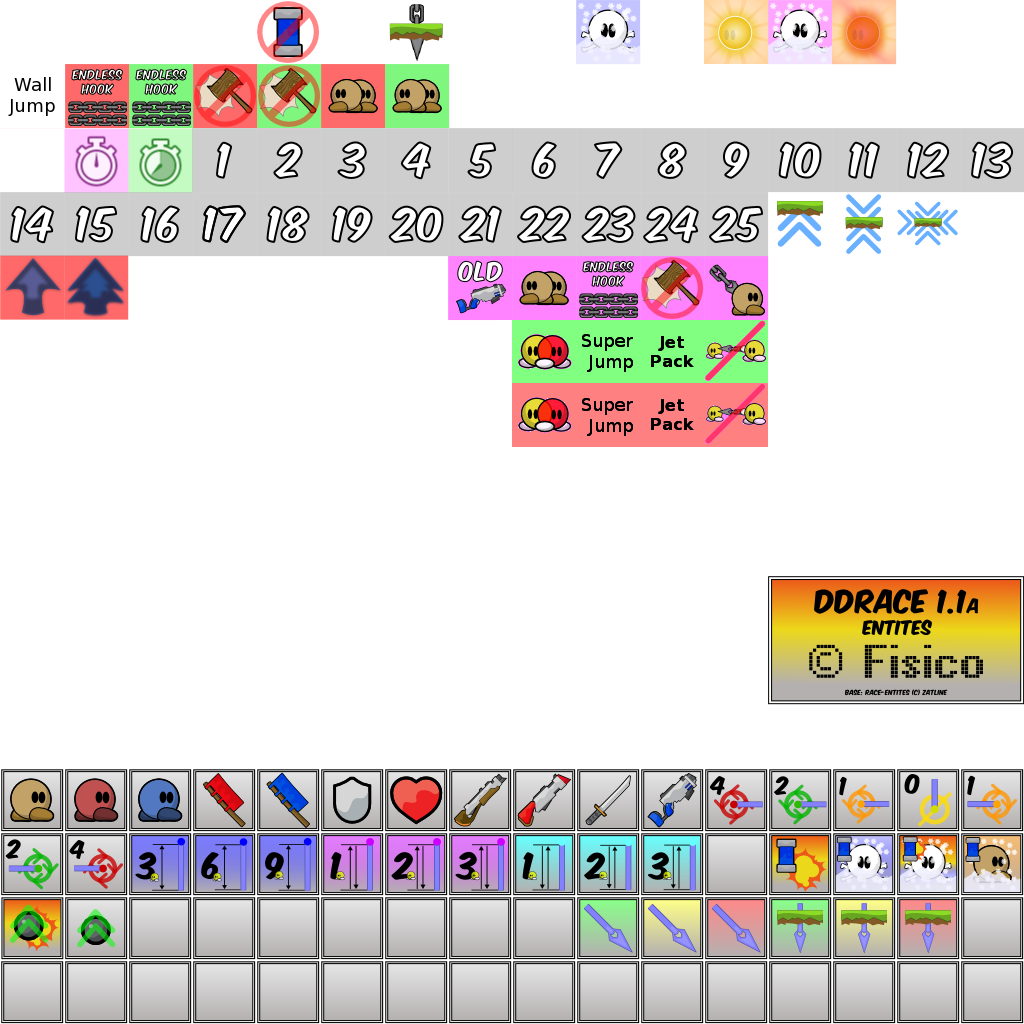
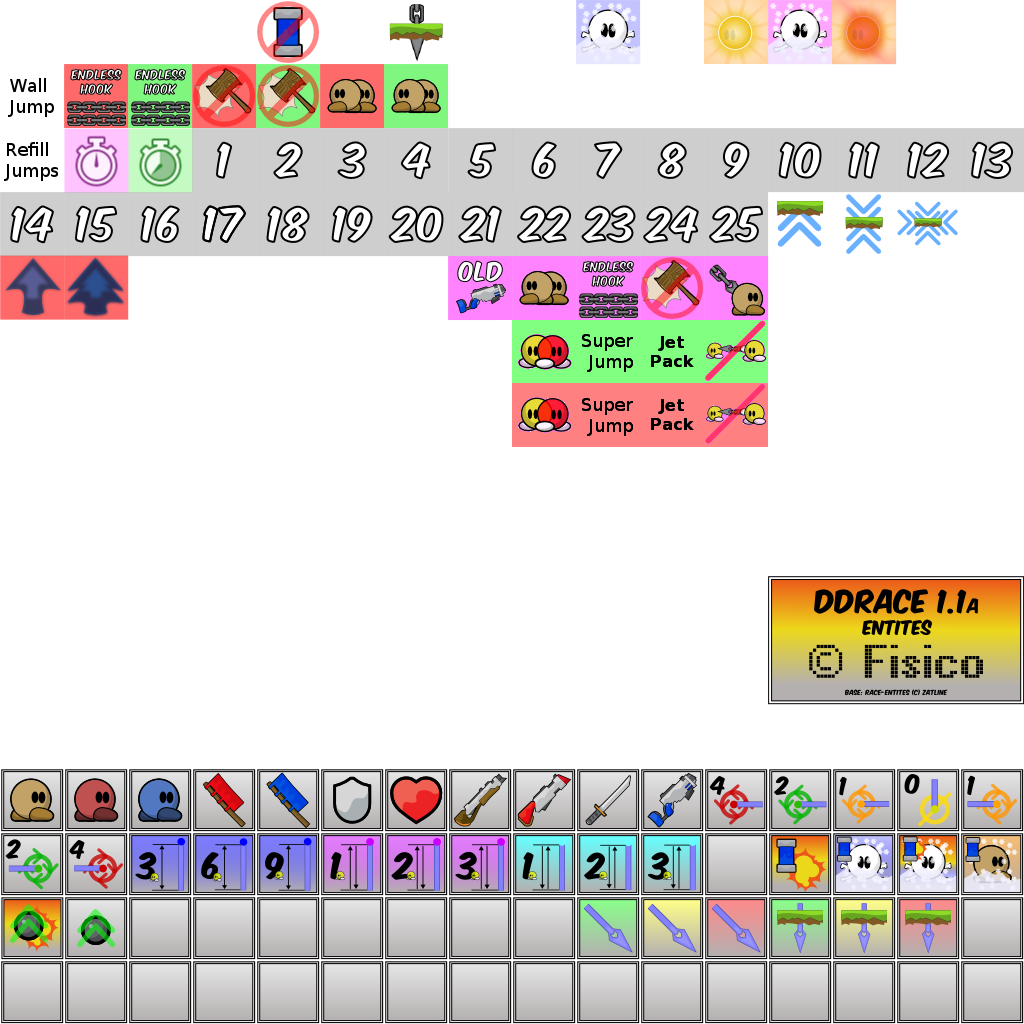
added refill jumps tile and cleaned tile detection

Changed region(s): [[0.0, 0.0625, 0.4375, 0.1875]]

diff --git a/src/game/server/entities/character.cpp b/src/game/server/entities/character.cpp
@@ -39,6 +39,7 @@ bool CCharacter::Spawn(CPlayer *pPlayer, vec2 Pos)
 	m_LastNoAmmoSound = -1;
 	m_LastWeapon = WEAPON_HAMMER;
 	m_QueuedWeapon = -1;
+	m_LastRefillJumps = false;
 	m_LastPenalty = false;
 	
 	m_pPlayer = pPlayer;
@@ -1350,6 +1351,7 @@ void CCharacter::HandleTiles(int Index)
 	//dbg_msg("","N%d L%d R%d B%d T%d",m_TileFIndex,m_TileFIndexL,m_TileFIndexR,m_TileFIndexB,m_TileFIndexT);
 	if(Index < 0)
 	{
+		m_LastRefillJumps = false;
 		m_LastPenalty = false;
 		return;
 	}
@@ -1406,6 +1408,8 @@ void CCharacter::HandleTiles(int Index)
 	int tcp = GameServer()->Collision()->IsTCheckpoint(MapIndex);
 	if(tcp)
 		m_TeleCheckpoint = tcp;
+
+	// start
 	if(((m_TileIndex == TILE_BEGIN) || (m_TileFIndex == TILE_BEGIN) || FTile1 == TILE_BEGIN || FTile2 == TILE_BEGIN || FTile3 == TILE_BEGIN || FTile4 == TILE_BEGIN || Tile1 == TILE_BEGIN || Tile2 == TILE_BEGIN || Tile3 == TILE_BEGIN || Tile4 == TILE_BEGIN) && (m_DDRaceState == DDRACE_NONE || m_DDRaceState == DDRACE_FINISHED || (m_DDRaceState == DDRACE_STARTED && !Team())))
 	{
 		bool CanBegin = true;
@@ -1439,16 +1443,23 @@ void CCharacter::HandleTiles(int Index)
 
 	}
 
+	// finish
 	if(((m_TileIndex == TILE_END) || (m_TileFIndex == TILE_END) || FTile1 == TILE_END || FTile2 == TILE_END || FTile3 == TILE_END || FTile4 == TILE_END || Tile1 == TILE_END || Tile2 == TILE_END || Tile3 == TILE_END || Tile4 == TILE_END) && m_DDRaceState == DDRACE_STARTED)
 		Controller->m_Teams.OnCharacterFinish(m_pPlayer->GetCID());
+
+	// freeze
 	if(((m_TileIndex == TILE_FREEZE) || (m_TileFIndex == TILE_FREEZE)) && !m_Super && !m_DeepFreeze)
 		Freeze();
 	else if(((m_TileIndex == TILE_UNFREEZE) || (m_TileFIndex == TILE_UNFREEZE)) && !m_DeepFreeze)
 		UnFreeze();
+
+	// deep freeze
 	if(((m_TileIndex == TILE_DFREEZE) || (m_TileFIndex == TILE_DFREEZE)) && !m_Super && !m_DeepFreeze)
 		m_DeepFreeze = true;
 	else if(((m_TileIndex == TILE_DUNFREEZE) || (m_TileFIndex == TILE_DUNFREEZE)) && !m_Super && m_DeepFreeze)
 		m_DeepFreeze = false;
+
+	// endless hook
 	if(((m_TileIndex == TILE_EHOOK_START) || (m_TileFIndex == TILE_EHOOK_START)) && !m_EndlessHook)
 	{
 		GameServer()->SendChatTarget(GetPlayer()->GetCID(), "Endless hook has been activated");
@@ -1459,10 +1470,26 @@ void CCharacter::HandleTiles(int Index)
 		GameServer()->SendChatTarget(GetPlayer()->GetCID(), "Endless hook has been deactivated");
 		m_EndlessHook = false;
 	}
-	if(((m_TileIndex == TILE_HIT_START) || (m_TileFIndex == TILE_HIT_START)) && m_Hit != HIT_ALL)
+
+	// hit others
+	if(((m_TileIndex == TILE_HIT_END) || (m_TileFIndex == TILE_HIT_END)) && m_Hit != (DISABLE_HIT_GRENADE|DISABLE_HIT_HAMMER|DISABLE_HIT_RIFLE|DISABLE_HIT_SHOTGUN))
+	{
+		GameServer()->SendChatTarget(GetPlayer()->GetCID(), "You can't hit others");
+		m_Hit = DISABLE_HIT_GRENADE|DISABLE_HIT_HAMMER|DISABLE_HIT_RIFLE|DISABLE_HIT_SHOTGUN;
+	}
+	else if(((m_TileIndex == TILE_HIT_START) || (m_TileFIndex == TILE_HIT_START)) && m_Hit != HIT_ALL)
 	{
 		GameServer()->SendChatTarget(GetPlayer()->GetCID(), "You can hit others");
 		m_Hit = HIT_ALL;
+	}
+
+	// collide with others
+	if(((m_TileIndex == TILE_NPC_END) || (m_TileFIndex == TILE_NPC_END)) && m_Core.m_Collision)
+	{
+		GameServer()->SendChatTarget(GetPlayer()->GetCID(), "You can't collide with others");
+		m_Core.m_Collision = false;
+		m_NeededFaketuning |= FAKETUNE_NOCOLL;
+		GameServer()->SendTuningParams(m_pPlayer->GetCID(), m_TuneZone); // update tunings
 	}
 	else if(((m_TileIndex == TILE_NPC_START) || (m_TileFIndex == TILE_NPC_START)) && !m_Core.m_Collision)
 	{
@@ -1471,21 +1498,13 @@ void CCharacter::HandleTiles(int Index)
 		m_NeededFaketuning &= ~FAKETUNE_NOCOLL;
 		GameServer()->SendTuningParams(m_pPlayer->GetCID(), m_TuneZone); // update tunings
 	}
-	else if(((m_TileIndex == TILE_SUPER_START) || (m_TileFIndex == TILE_SUPER_START)) && !m_SuperJump)
+
+	// hook others
+	if(((m_TileIndex == TILE_NPH_END) || (m_TileFIndex == TILE_NPH_END)) && m_Core.m_Hook)
 	{
-		GameServer()->SendChatTarget(GetPlayer()->GetCID(),"You have unlimited air jumps");
-		m_SuperJump = true;
-		if (m_Core.m_Jumps == 0)
-		{
-			m_NeededFaketuning &= ~FAKETUNE_NOJUMP;
-			GameServer()->SendTuningParams(m_pPlayer->GetCID(), m_TuneZone); // update tunings
-		}
-	}
-	else if(((m_TileIndex == TILE_JETPACK_START) || (m_TileFIndex == TILE_JETPACK_START)) && !m_Jetpack)
-	{
-		GameServer()->SendChatTarget(GetPlayer()->GetCID(),"You have a jetpack gun");
-		m_Jetpack = true;
-		m_NeededFaketuning |= FAKETUNE_JETPACK;
+		GameServer()->SendChatTarget(GetPlayer()->GetCID(), "You can't hook others");
+		m_Core.m_Hook = false;
+		m_NeededFaketuning |= FAKETUNE_NOHOOK;
 		GameServer()->SendTuningParams(m_pPlayer->GetCID(), m_TuneZone); // update tunings
 	}
 	else if(((m_TileIndex == TILE_NPH_START) || (m_TileFIndex == TILE_NPH_START)) && !m_Core.m_Hook)
@@ -1495,17 +1514,17 @@ void CCharacter::HandleTiles(int Index)
 		m_NeededFaketuning &= ~FAKETUNE_NOHOOK;
 		GameServer()->SendTuningParams(m_pPlayer->GetCID(), m_TuneZone); // update tunings
 	}
-	else if(((m_TileIndex == TILE_HIT_END) || (m_TileFIndex == TILE_HIT_END)) && m_Hit != (DISABLE_HIT_GRENADE|DISABLE_HIT_HAMMER|DISABLE_HIT_RIFLE|DISABLE_HIT_SHOTGUN))
+
+	// unlimited air jumps
+	if(((m_TileIndex == TILE_SUPER_START) || (m_TileFIndex == TILE_SUPER_START)) && !m_SuperJump)
 	{
-		GameServer()->SendChatTarget(GetPlayer()->GetCID(), "You can't hit others");
-		m_Hit = DISABLE_HIT_GRENADE|DISABLE_HIT_HAMMER|DISABLE_HIT_RIFLE|DISABLE_HIT_SHOTGUN;
-	}
-	else if(((m_TileIndex == TILE_NPC_END) || (m_TileFIndex == TILE_NPC_END)) && m_Core.m_Collision)
-	{
-		GameServer()->SendChatTarget(GetPlayer()->GetCID(), "You can't collide with others");
-		m_Core.m_Collision = false;
-		m_NeededFaketuning |= FAKETUNE_NOCOLL;
-		GameServer()->SendTuningParams(m_pPlayer->GetCID(), m_TuneZone); // update tunings
+		GameServer()->SendChatTarget(GetPlayer()->GetCID(),"You have unlimited air jumps");
+		m_SuperJump = true;
+		if (m_Core.m_Jumps == 0)
+		{
+			m_NeededFaketuning &= ~FAKETUNE_NOJUMP;
+			GameServer()->SendTuningParams(m_pPlayer->GetCID(), m_TuneZone); // update tunings
+		}
 	}
 	else if(((m_TileIndex == TILE_SUPER_END) || (m_TileFIndex == TILE_SUPER_END)) && m_SuperJump)
 	{
@@ -1517,7 +1536,9 @@ void CCharacter::HandleTiles(int Index)
 			GameServer()->SendTuningParams(m_pPlayer->GetCID(), m_TuneZone); // update tunings
 		}
 	}
-	else if((m_TileIndex == TILE_WALLJUMP) || (m_TileFIndex == TILE_WALLJUMP))
+
+	// walljump
+	if((m_TileIndex == TILE_WALLJUMP) || (m_TileFIndex == TILE_WALLJUMP))
 	{
 		if(m_Core.m_Vel.y > 0 && m_Core.m_Colliding && m_Core.m_LeftWall)
 		{
@@ -1526,6 +1547,15 @@ void CCharacter::HandleTiles(int Index)
 			m_Core.m_Jumped = 1;
 		}
 	}
+
+	// jetpack gun
+	if(((m_TileIndex == TILE_JETPACK_START) || (m_TileFIndex == TILE_JETPACK_START)) && !m_Jetpack)
+	{
+		GameServer()->SendChatTarget(GetPlayer()->GetCID(),"You have a jetpack gun");
+		m_Jetpack = true;
+		m_NeededFaketuning |= FAKETUNE_JETPACK;
+		GameServer()->SendTuningParams(m_pPlayer->GetCID(), m_TuneZone); // update tunings
+	}
 	else if(((m_TileIndex == TILE_JETPACK_END) || (m_TileFIndex == TILE_JETPACK_END)) && m_Jetpack)
 	{
 		GameServer()->SendChatTarget(GetPlayer()->GetCID(), "You lost your jetpack gun");
@@ -1533,13 +1563,8 @@ void CCharacter::HandleTiles(int Index)
 		m_NeededFaketuning &= ~FAKETUNE_JETPACK;
 		GameServer()->SendTuningParams(m_pPlayer->GetCID(), m_TuneZone); // update tunings
 	}
-	else if(((m_TileIndex == TILE_NPH_END) || (m_TileFIndex == TILE_NPH_END)) && m_Core.m_Hook)
-	{
-		GameServer()->SendChatTarget(GetPlayer()->GetCID(), "You can't hook others");
-		m_Core.m_Hook = false;
-		m_NeededFaketuning |= FAKETUNE_NOHOOK;
-		GameServer()->SendTuningParams(m_pPlayer->GetCID(), m_TuneZone); // update tunings
-	}
+
+	// solo part
 	if(((m_TileIndex == TILE_SOLO_START) || (m_TileFIndex == TILE_SOLO_START)) && !Teams()->m_Core.GetSolo(m_pPlayer->GetCID()))
 	{
 		GameServer()->SendChatTarget(GetPlayer()->GetCID(), "You are now in a solo part.");
@@ -1550,6 +1575,21 @@ void CCharacter::HandleTiles(int Index)
 		GameServer()->SendChatTarget(GetPlayer()->GetCID(), "You are now out of the solo part.");
 		SetSolo(false);
 	}
+
+	// refill jumps
+	if(((m_TileIndex == TILE_REFILL_JUMPS) || (m_TileFIndex == TILE_REFILL_JUMPS)) && !m_LastRefillJumps)
+	{
+		m_Core.m_Jumped = 0;
+		m_Core.m_JumpedTotal = 0;
+
+		m_LastRefillJumps = true;
+	}
+	if((m_TileIndex != TILE_REFILL_JUMPS) && (m_TileFIndex != TILE_REFILL_JUMPS))
+	{
+		m_LastRefillJumps = false;
+	}
+
+	// stopper
 	if(((m_TileIndex == TILE_STOP && m_TileFlags == ROTATION_270) || (m_TileIndexL == TILE_STOP && m_TileFlagsL == ROTATION_270) || (m_TileIndexL == TILE_STOPS && (m_TileFlagsL == ROTATION_90 || m_TileFlagsL ==ROTATION_270)) || (m_TileIndexL == TILE_STOPA) || (m_TileFIndex == TILE_STOP && m_TileFFlags == ROTATION_270) || (m_TileFIndexL == TILE_STOP && m_TileFFlagsL == ROTATION_270) || (m_TileFIndexL == TILE_STOPS && (m_TileFFlagsL == ROTATION_90 || m_TileFFlagsL == ROTATION_270)) || (m_TileFIndexL == TILE_STOPA) || (m_TileSIndex == TILE_STOP && m_TileSFlags == ROTATION_270) || (m_TileSIndexL == TILE_STOP && m_TileSFlagsL == ROTATION_270) || (m_TileSIndexL == TILE_STOPS && (m_TileSFlagsL == ROTATION_90 || m_TileSFlagsL == ROTATION_270)) || (m_TileSIndexL == TILE_STOPA)) && m_Core.m_Vel.x > 0)
 	{
 		if((int)GameServer()->Collision()->GetPos(MapIndexL).x)

diff --git a/src/game/collision.cpp b/src/game/collision.cpp
@@ -131,7 +131,7 @@ void CCollision::Init(class CLayers *pLayers)
 				}
 
 				// DDRace tiles
-				if(Index == TILE_THROUGH || Index == TILE_WALLJUMP || (Index >= TILE_FREEZE && Index <= TILE_UNFREEZE) || (Index >= TILE_SWITCHOPEN && Index <= TILE_TELECHECKIN) || (Index >= TILE_BEGIN && Index <= TILE_STOPA) || Index == TILE_CP || Index == TILE_CP_F || (Index >= TILE_OLDLASER && Index <= TILE_NPH_START) || (Index >= TILE_EHOOK_START && Index <= TILE_SOLO_END) || (Index >= TILE_DFREEZE && Index <= TILE_DUNFREEZE))
+				if(Index == TILE_THROUGH || Index == TILE_WALLJUMP || (Index >= TILE_FREEZE && Index <= TILE_UNFREEZE) || (Index >= TILE_SWITCHOPEN && Index <= TILE_TELECHECKIN) || (Index >= TILE_REFILL_JUMPS && Index <= TILE_STOPA) || Index == TILE_CP || Index == TILE_CP_F || (Index >= TILE_OLDLASER && Index <= TILE_NPH_START) || (Index >= TILE_EHOOK_START && Index <= TILE_SOLO_END) || (Index >= TILE_DFREEZE && Index <= TILE_DUNFREEZE))
 					m_pFront[i].m_Index = Index;
 			}
 		}
@@ -157,7 +157,7 @@ void CCollision::Init(class CLayers *pLayers)
 			}
 
 			// DDRace tiles
-			if(Index == TILE_THROUGH || Index == TILE_WALLJUMP || (Index >= TILE_FREEZE && Index <= TILE_UNFREEZE) || (Index >= TILE_SWITCHOPEN && Index <= TILE_TELECHECKIN) || (Index >= TILE_BEGIN && Index <= TILE_STOPA) || Index == TILE_CP || Index == TILE_CP_F || (Index >= TILE_OLDLASER && Index <= TILE_NPH_START) || (Index >= TILE_EHOOK_START && Index <= TILE_SOLO_END) || (Index >= TILE_DFREEZE && Index <= TILE_DUNFREEZE))
+			if(Index == TILE_THROUGH || Index == TILE_WALLJUMP || (Index >= TILE_FREEZE && Index <= TILE_UNFREEZE) || (Index >= TILE_SWITCHOPEN && Index <= TILE_TELECHECKIN) || (Index >= TILE_REFILL_JUMPS && Index <= TILE_STOPA) || Index == TILE_CP || Index == TILE_CP_F || (Index >= TILE_OLDLASER && Index <= TILE_NPH_START) || (Index >= TILE_EHOOK_START && Index <= TILE_SOLO_END) || (Index >= TILE_DFREEZE && Index <= TILE_DUNFREEZE))
 				m_pTiles[i].m_Index = Index;
 		}
 	}

diff --git a/src/game/gamecore.cpp b/src/game/gamecore.cpp
@@ -232,8 +232,8 @@ void CCharacterCore::Tick(bool UseInput, bool IsClient)
 		m_Vel.x *= Friction;
 
 	// handle jumping
-	// 1 bit = to keep track if a jump has been made on this input
-	// 2 bit = to keep track if a air-jump has been made
+	// 1 bit = to keep track if a jump has been made on this input (player is holding space bar)
+	// 2 bit = to keep track if a air-jump has been made (tee gets dark feet)
 	if(Grounded)
 	{
 		m_Jumped &= ~2;

diff --git a/src/game/server/entities/character.h b/src/game/server/entities/character.h
@@ -238,6 +238,7 @@ public:
 	int m_TileSFlagsB;
 	vec2 m_Intersection;
 	int64 m_LastStartWarning;
+	bool m_LastRefillJumps;
 	bool m_LastPenalty;
 
 	// Setters/Getters because i don't want to modify vanilla vars access modifiers

diff --git a/src/game/mapitems.h b/src/game/mapitems.h
@@ -124,7 +124,8 @@ enum
 	TILE_TELECHECK,
 	TILE_TELECHECKOUT,
 	TILE_TELECHECKIN,
-	TILE_BEGIN = 33,
+	TILE_REFILL_JUMPS = 32,
+	TILE_BEGIN,
 	TILE_END,
 	TILE_STOP = 60,
 	TILE_STOPS,
